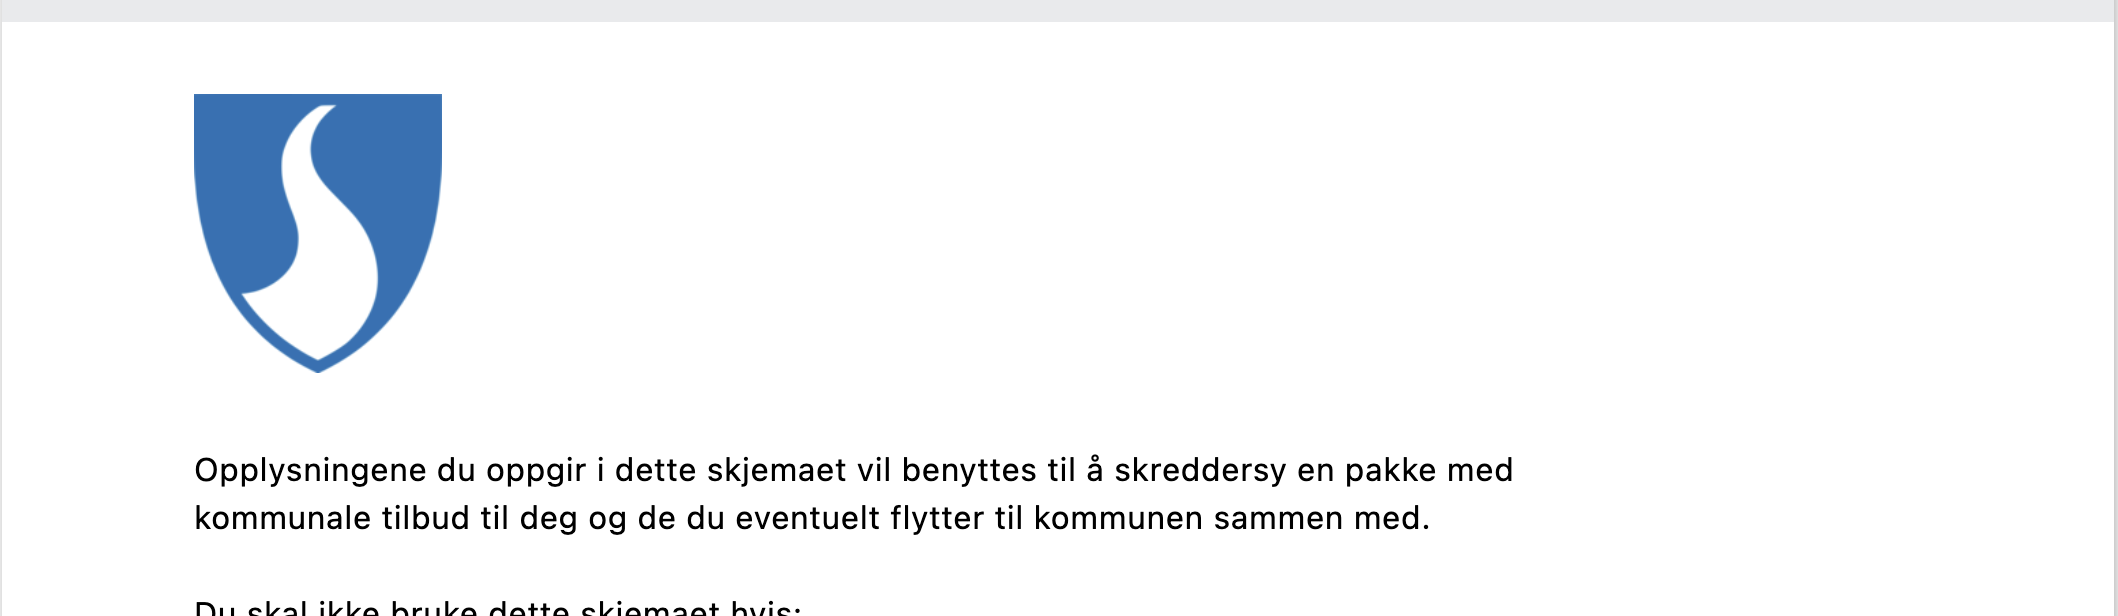
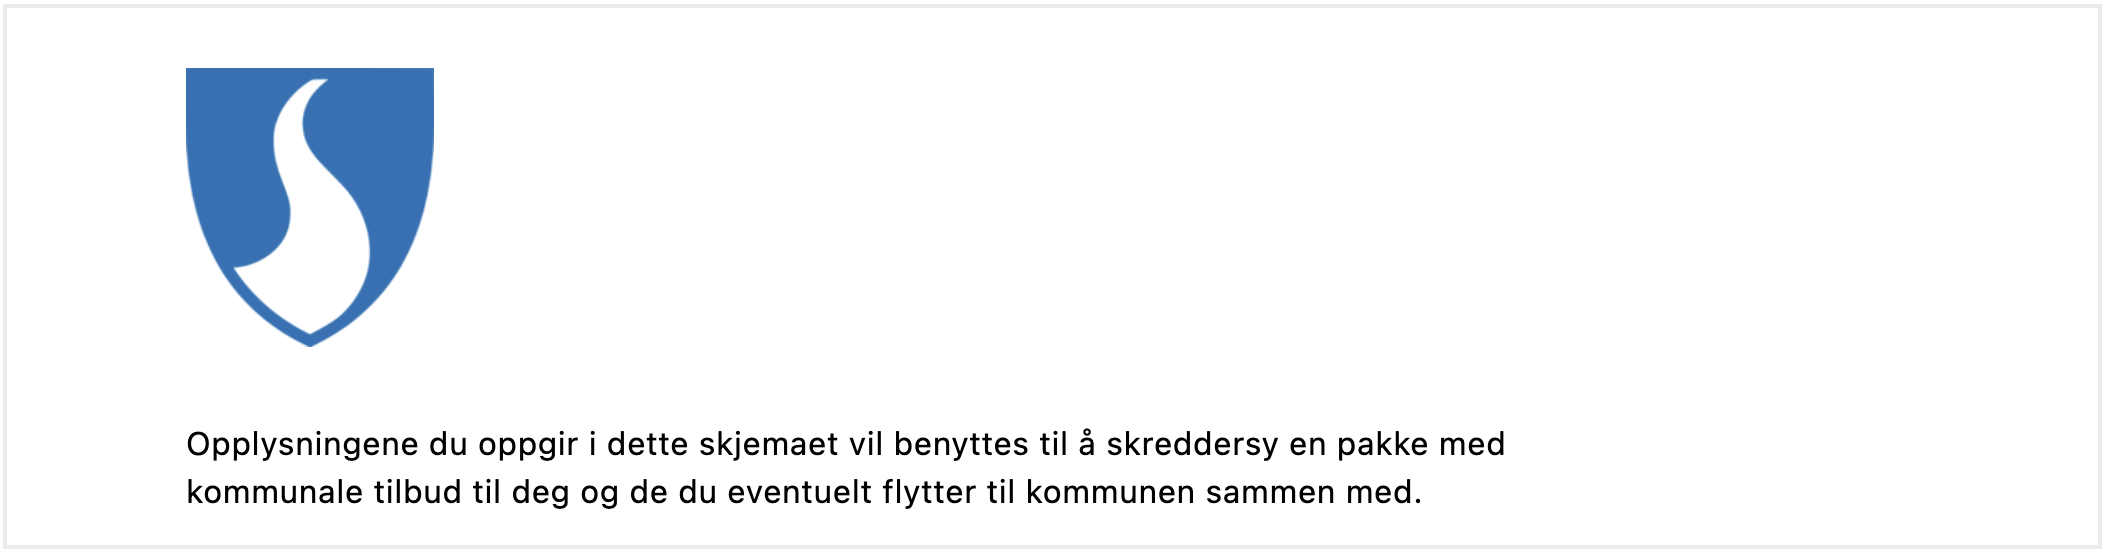
Updated images docs with thin border around tabbed content. Added tab for code examples.

diff --git a/content/app/development/ux/components/images/_index.en.md b/content/app/development/ux/components/images/_index.en.md
@@ -39,7 +39,10 @@ Keep alternative texts consistent:
 - Write short and start with the most important part of the image.
 - End by saying if the photo is a photo, illustration or graphic.
 
+<br>
+
 **Example** 
+
 <img src="https://www.uutilsynet.no/sites/tilsyn/files/styles/xxl/public/2023-01/Tretralle.png?itok=gBevDs0F" alt="Old wooden trolly. Photograph." width="300px"/>
 
 Alt text: "Old wooden trolly. Photograph."
@@ -51,7 +54,10 @@ For more guidelines and examples, see [UUtilsynet](https://www.uutilsynet.no/reg
 ---
 ## Add and configure component
 
-{{<content-version-selector classes="thin-border-tabs">}}
+A component can be added in [Altinn Studio Designer](/app/getting-started/ui-editor/) by dragging it from the left-side panel to the page area in the middle.
+ Select the component you want to configure by clicking it. This will bring up the following configuration panel for the component on the right-hand side.
+
+{{<content-version-selector classes="thin-border">}}
 {{<content-version-container version-label="Code">}}
 
 ```json{linenos=false,hl_lines=["4-14"]}
@@ -77,10 +83,8 @@ For more guidelines and examples, see [UUtilsynet](https://www.uutilsynet.no/reg
 ```
 
 {{</content-version-container>}}
-{{<content-version-container version-label="ASD">}}
-
-In [Altinn Studio Designer](/app/getting-started/ui-editor/) (ASD), drag the component from the left-side panel to the page area in the middle.
-Select the component you want to configure by clicking it. This will bring up the following configuration panel for the component on the right-hand side:
+{{<content-version-container version-label="Altinn Studio Designer">}}
+<br>
 
 ![Images settings anatomy](./images-settings-anatomy.png)
 
@@ -105,7 +109,7 @@ An image placed in `/App/wwwroot` can be referenced in one of two ways:
 1. Using its relative URL: `/<org or username>/<app-name>/image.png` or
 2. Using the image path: `wwwroot/image.png` (will resolve to relative URL before image is loaded).
 
-{{<content-version-selector classes="thin-border-tabs">}}
+{{<content-version-selector classes="thin-border">}}
 {{<content-version-container version-label="Code">}}
 Using relative URL as source:
 ```json{linenos=false,hl_lines="9"}
@@ -143,12 +147,15 @@ Using image path as source:
 ```
 (Part of the code is omitted for brevity)
 {{</content-version-container>}}
-{{<content-version-container version-label="ASD">}}
+{{<content-version-container version-label="Altinn Studio Designer">}}
 Using relative URL as source:
-![Settings with source relative url. Image](<image-src-rel-url.png>)
+
+![Settings with source relative url. Image](<image-src-rel-url.png> "Relative URL as source")
 
 Using image path as source:
-![Settings with source local folder. Image](<image-src-wwwroot.png>)
+
+![Settings with source local folder. Image](<image-src-wwwroot.png> "Image path as source")
+
 {{</content-version-container>}}
 {{</content-version-selector>}}
 
@@ -181,7 +188,7 @@ An alternative text is used by screen readers and will be displayed if the image
  The alt text is stored as a [text resource](/app/development/ux/texts/#add-and-change-texts-in-an-application) defined in `/App/config/texts/resource.<language>.json`.
 
 **Example 1**: Add text resource using the id `kommune-logo.altTextImg`
-{{<content-version-selector classes="thin-border-tabs">}}
+{{<content-version-selector classes="thin-border">}}
 {{<content-version-container version-label="Code">}}
 Add a text resource by specifying the text resource id for the property `textResourceBindings.altTextImg`:
 ```json{hl_lines=["9-11"]}
@@ -209,8 +216,9 @@ Add a text resource by specifying the text resource id for the property `textRes
 }
 ```
 {{</content-version-container>}}
-{{<content-version-container version-label="ASD">}}
+{{<content-version-container version-label="Altinn Studio Designer">}}
 Click the magnifying glass next to the property field to reveal a dropdown where you can select an existing text resource:
+
 ![Select text resource screenshot](screenshot-select-text.png "Select text resource")
 
 {{</content-version-container>}}
@@ -219,7 +227,7 @@ Click the magnifying glass next to the property field to reveal a dropdown where
 <br>
 
 **Example 2**: Create or edit text resource
-{{<content-version-selector classes="thin-border-tabs">}}
+{{<content-version-selector classes="thin-border">}}
 {{<content-version-container version-label="Code">}}
 Add or edit the text resource id and/or value in the appropriate language resource file.
  If the file does not exist, you can create it.
@@ -252,10 +260,12 @@ Add or edit the text resource id and/or value in the appropriate language resour
 }
 ```
 {{</content-version-container>}}
-{{<content-version-container version-label="ASD">}}
+{{<content-version-container version-label="Altinn Studio Designer">}}
 Click the `+` sign next to the field to add a new text resource (or the pencil icon to edit if one is already selected).
  You get the option to add/edit texts in English and Norwegian bokmål. Other languages are available from the text editor (click _Tekst_ in the top-level menu).
+
 ![Create and edit text resource screenshot](screenshot-edit-text.png "Create and edit text resource")
+
 {{</content-version-container>}}
 {{</content-version-selector>}}
 
@@ -268,9 +278,9 @@ Property: `align`
 Controls the horizontal alignment of the image.
 In ASD, the options are "Venstre" (left), "Midtstilt" (centered), and "Høyre" (right).
  These settings correspond to the property values `flex-start`, `center`, and `flex-end`, respectively.
-  In addition, `align` accept the values `space-between`, `space-around`, and `space-evenly`.
+  In addition, `align` accepts the values `space-between`, `space-around`, and `space-evenly`.
 
-{{<content-version-selector classes="thin-border-tabs">}}
+{{<content-version-selector classes="thin-border">}}
 {{<content-version-container version-label="Code">}}
 ```json{hl_lines="17"}
 // File: /App/ui/layouts/<page>.json
@@ -297,7 +307,7 @@ In ASD, the options are "Venstre" (left), "Midtstilt" (centered), and "Høyre" (
 }
 ```
 {{</content-version-container>}}
-{{<content-version-container version-label="ASD">}}
+{{<content-version-container version-label="Altinn Studio Designer">}}
 ![Screenshot of alignment settings](screenshot-alignment-settings.png "Screenshot of alignment settings")
 
 ![]() <!-- Hack to reveal image caption -->
@@ -315,7 +325,6 @@ The following is an autogenerated list of the properties available for {{% title
 
 ## Examples
 
-The following configuration is currently not available in Altinn Studio Designer and must be done with [local development](/app/getting-started/local-dev/).
 ### Multiple sources based on language
 
 The default source is `nb`, and this source will be used for any language that does not define a separate source for the image.
@@ -323,6 +332,8 @@ The default source is `nb`, and this source will be used for any language that d
 
 Available language sources are `en` (English), `nb` (Norwegian bokmål),and `nn` (Norwegian nynorsk).
 
+{{<content-version-selector classes="thin-border">}}
+{{<content-version-container version-label="Code">}}
 ```json{hl_lines=["10-13"]}
 // File: /App/ui/layouts/<page>.json
 
@@ -345,17 +356,17 @@ Available language sources are `en` (English), `nb` (Norwegian bokmål),and `nn`
   }
 }
 ```
+{{</content-version-container>}}
+{{</content-version-selector>}}
 
 ### Horizontal alignment with `grid`
 
 The `grid` property controls horizontal alignment based on a 12-column layout.
  Items are allocated fractions of 12 which sets their width relative to the screen width.
   In the example below, the image component's width will be set to 2/12 of the screen width for all screen sizes.
- 
-`grid` may also be used to place items next to each other.
 
-See [Components placed side by side (grid)](/app/development/ux/styling/#components-placed-side-by-side-grid) for details and more examples.
-
+{{<content-version-selector classes="thin-border">}}
+{{<content-version-container version-label="Code">}}
 ```json{hl_lines=["15-17"]}
 // File: /App/ui/layouts/<page>.json
 
@@ -381,5 +392,12 @@ See [Components placed side by side (grid)](/app/development/ux/styling/#compone
   }
 }
 ```
+{{</content-version-container>}}
+{{</content-version-selector>}}
+
 
 ![Grid example screenshot](screenshot-grid-example.png "Example of image taking up 2/12 of the screen width")
+
+`grid` may also be used to place items next to each other.
+
+See [Components placed side by side (grid)](/app/development/ux/styling/#components-placed-side-by-side-grid) for details and more examples.
